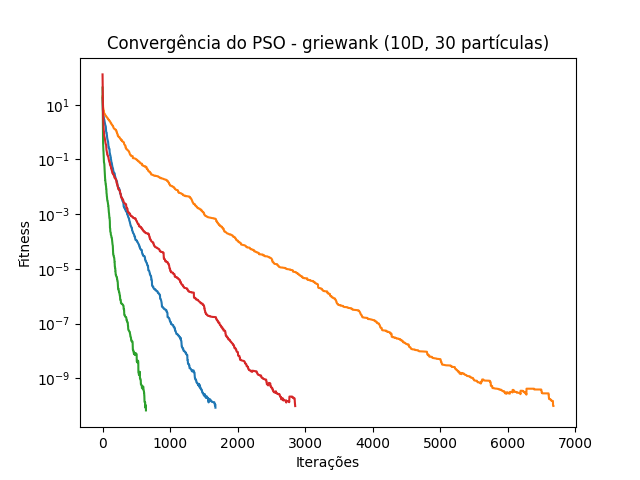
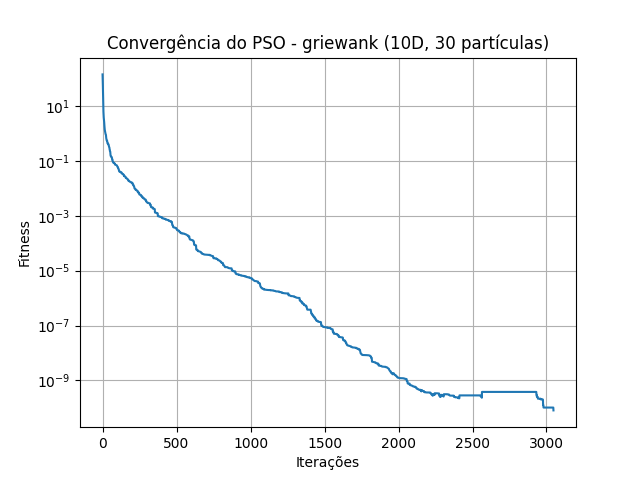
fix: dando um plt.close() na intenção de não misturar os gráficos

diff --git a/main.py b/main.py
@@ -55,7 +55,7 @@ if __name__ == '__main__':
             # Preenchimento com NaN para alinhamento
             fits_padded = [np.pad(f, (0, max_len - len(f)), constant_values=np.nan) for f in fits]
             mean_fit = np.nanmean(fits_padded, axis=0)
-
+            
             plt.plot(mean_fit)
             plt.title(f"Convergência do PSO - {test_function} ({dim}D, {NUM_PARTICLES} partículas)")
             plt.xlabel("Iterações")
@@ -63,6 +63,7 @@ if __name__ == '__main__':
             plt.yscale("log")
             plt.grid()
             plt.savefig(f"graphs/convergencia_{test_function}_{dim}D.png")
+            plt.close()
 
             print("\nOptimization Results:")
             print(f"Best fitness: {result.best_fitness}")
